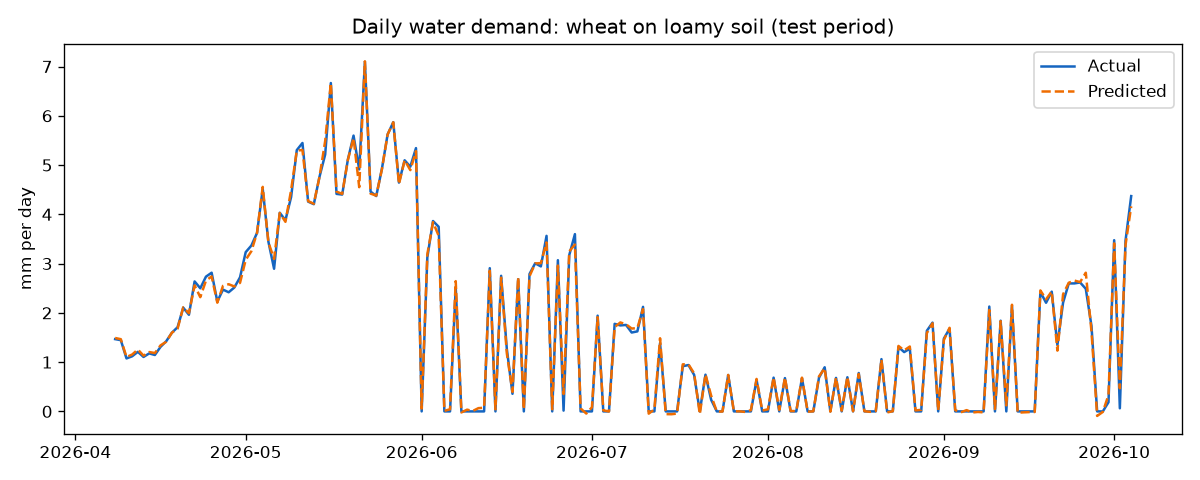
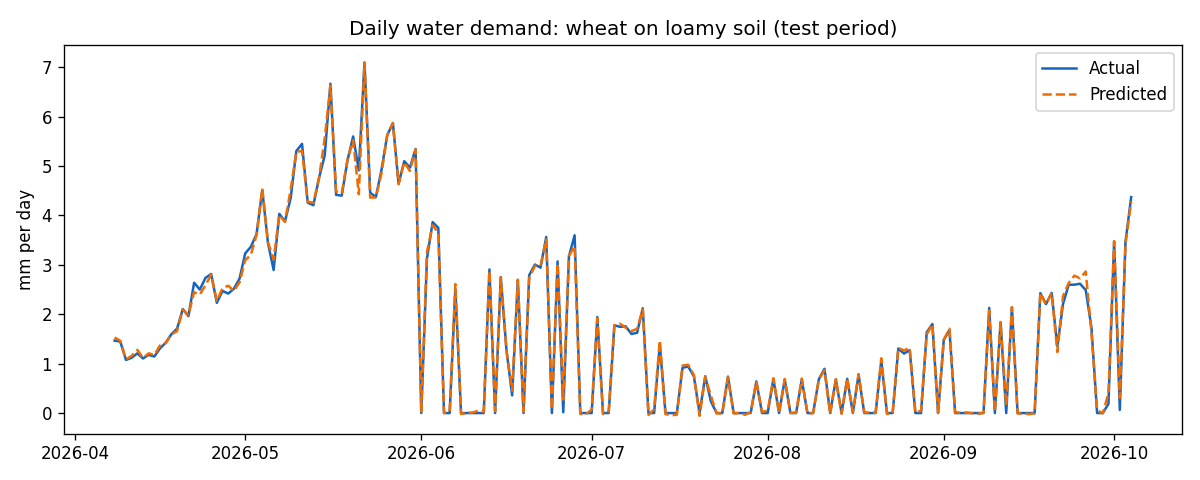
Save dynamic multilingual AI chatbot integration

diff --git a/backend/app/services/groq_service.py b/backend/app/services/groq_service.py
@@ -1,0 +1,158 @@
+"""Groq LLM integration for dynamic chatbot responses.
+
+When the rule-based NLU classifies a message as greeting, help, or unknown,
+this module calls the Groq API to generate a natural, context-aware reply.
+All field data shown to the LLM comes from the database so the model never
+invents sensor readings.  The system prompt includes website-feature context
+so the LLM can answer platform-usage questions, and allows general-knowledge
+questions without forcing an agriculture context.
+If the API key is missing or the call fails, ``generate_response`` returns
+``None`` and the caller falls back to the existing rule-based reply.
+"""
+import logging
+
+from sqlalchemy.orm import Session
+
+from app.core.config import settings
+from app.models.models import Alert, Farm, Field, SensorReading, User
+
+logger = logging.getLogger(__name__)
+
+# Production model verified available for this API key via client.models.list()
+GROQ_MODEL = "openai/gpt-oss-120b"
+
+_LANG_NAMES = {"en": "English", "hi": "Hindi", "mr": "Marathi"}
+
+
+def _build_context(db: Session, user: User) -> str:
+    """Return a compact text summary of the user's fields and latest readings."""
+    fields = (
+        db.query(Field)
+        .join(Farm, Field.farm_id == Farm.id)
+        .filter(Farm.owner_id == user.id)
+        .order_by(Field.id)
+        .all()
+    )
+    if not fields:
+        return "The farmer has no fields registered yet."
+
+    lines = []
+    for f in fields:
+        reading = (
+            db.query(SensorReading)
+            .filter(SensorReading.field_id == f.id)
+            .order_by(SensorReading.timestamp.desc())
+            .first()
+        )
+        parts = [f"Field '{f.name}': crop={f.crop_type}, soil={f.soil_type}"]
+        if f.area_acres:
+            parts.append(f"area={f.area_acres} acres")
+        if reading:
+            parts.append(
+                f"latest reading ({reading.timestamp.strftime('%Y-%m-%d %H:%M')} UTC): "
+                f"soil_moisture={reading.soil_moisture}%, "
+                f"temperature={reading.temperature}°C, "
+                f"humidity={reading.humidity}%, "
+                f"rainfall={reading.rainfall}mm, "
+                f"wind_speed={reading.wind_speed}km/h"
+            )
+        else:
+            parts.append("no sensor readings yet")
+        lines.append(", ".join(parts))
+
+    unread = (
+        db.query(Alert)
+        .join(Field, Alert.field_id == Field.id)
+        .join(Farm, Field.farm_id == Farm.id)
+        .filter(Farm.owner_id == user.id, Alert.is_read.is_(False))
+        .count()
+    )
+    if unread:
+        lines.append(f"Unread alerts: {unread}")
+
+    return "\n".join(lines)
+
+
+def generate_response(db: Session, user: User, message: str, lang: str):
+    """Generate a dynamic reply via Groq.
+
+    Returns the reply text, or ``None`` when the API key is missing or the
+    call fails (caller falls back to the rule-based response).
+    """
+    if not settings.GROQ_API_KEY:
+        return None
+
+    try:
+        from groq import Groq
+
+        client = Groq(api_key=settings.GROQ_API_KEY)
+    except Exception as exc:
+        logger.warning("Failed to initialise Groq client: %s", exc)
+        return None
+
+    context = _build_context(db, user)
+    lang_name = _LANG_NAMES.get(lang, "English")
+
+    system_prompt = (
+        f"You are a knowledgeable AI assistant for the Smart Irrigation AI Platform, "
+        f"a web application that helps farmers monitor soil moisture, forecast water "
+        f"demand, and manage irrigation. You can answer ANY question — agriculture, "
+        f"general knowledge, technology, cooking, science, current affairs, or "
+        f"anything else. Respond naturally and helpfully.\n\n"
+        f"LANGUAGE: Reply in {lang_name}. Match the user's question language exactly — "
+        f"Hindi question → Hindi reply, Marathi question → Marathi reply, "
+        f"English question → English reply.\n\n"
+        f"The farmer's field data from the database:\n{context}\n\n"
+        f"WEBSITE FEATURES (use this to answer questions about the platform):\n"
+        f"- Registration: Go to the Register page (/register) and create an account "
+        f"with email, full name, and password.\n"
+        f"- Login: Go to the Login page (/login) and sign in with email and password.\n"
+        f"- Forgot password: Use the 'Forgot Password' link on the login page.\n"
+        f"- Dashboard (home page): Lists all your farms with summary cards (farm count, "
+        f"field count, unread alerts). Click 'Add farm' to create a new farm.\n"
+        f"- Farm detail: Click a farm card to see its fields. Click 'Add field' to add "
+        f"a field to a farm.\n"
+        f"- Fields page (/fields): Lists all fields across all farms with crop type, "
+        f"soil type, area (acres), and planting date.\n"
+        f"- Field detail: Click any field to see live sensor readings (soil moisture, "
+        f"temperature, humidity, rainfall, wind speed) with charts, water demand "
+        f"forecasts, irrigation history, and ML model info. Readings refresh every "
+        f"5 seconds.\n"
+        f"- Alerts page (/alerts): Automatic warnings from field sensors — dry soil, "
+        f"heat stress, heavy rain, sensor offline. Filter unread, mark individual or "
+        f"all as read. The sidebar shows an unread alert badge.\n"
+        f"- Chatbot: The floating chat button in the bottom-right corner. Supports "
+        f"text and voice input.\n"
+        f"- Language: Set preferred language (English, Hindi, Marathi) from the "
+        f"sidebar dropdown.\n"
+        f"- Supported crops: wheat, rice, cotton, sugarcane, maize, soybean, tomato, "
+        f"onion.\n"
+        f"- Supported soil types: sandy, loamy, clay.\n\n"
+        f"RULES:\n"
+        f"- For questions about the user's fields, sensor readings, or alerts: use "
+        f"ONLY the field data provided above. Never invent sensor readings, "
+        f"forecasts, or farmer information.\n"
+        f"- If field data is unavailable, tell the user clearly.\n"
+        f"- For general knowledge questions (science, technology, cooking, people, "
+        f"current affairs, etc.): answer normally and helpfully. Do not force an "
+        f"agriculture context.\n"
+        f"- If asked about pesticides, fertilisers, or medicines: advise contacting "
+        f"the local Krishi Vigyan Kendra (KVK) or agriculture officer.\n"
+        f"- Be friendly, practical, and concise. Keep responses under 200 words.\n"
+    )
+
+    try:
+        response = client.chat.completions.create(
+            model=GROQ_MODEL,
+            messages=[
+                {"role": "system", "content": system_prompt},
+                {"role": "user", "content": message},
+            ],
+            max_tokens=500,
+            temperature=0.7,
+        )
+        reply = response.choices[0].message.content.strip()
+        return reply if reply else None
+    except Exception as exc:
+        logger.warning("Groq API call failed: %s", exc)
+        return None

diff --git a/backend/app/services/chat_service.py b/backend/app/services/chat_service.py
@@ -8,6 +8,7 @@ from app.models.models import Alert, Farm, IrrigationLog, SensorReading, User
 from app.models.models import Field as FieldModel
 from app.schemas.chat import ChatResponse
 from app.services import chat_nlu as nlu
+from app.services import groq_service
 from app.services.forecast_service import ModelNotReady, NotEnoughData, forecast_field
 from ml.agronomy import SOILS
 
@@ -223,12 +224,11 @@ def handle_message(db: Session, user: User, message: str, requested_lang=None) -
 
     if intent == "safety":
         return _reply(lang, intent, say("safety", lang), suggestions=False)
-    if intent == "greeting":
-        return _reply(lang, intent, say("greeting", lang))
-    if intent == "help":
-        return _reply(lang, intent, say("help", lang))
-    if intent == "unknown":
-        return _reply(lang, intent, say("unknown", lang))
+    if intent in ("greeting", "help", "unknown"):
+        groq_reply = groq_service.generate_response(db, user, message, lang)
+        if groq_reply is not None:
+            return _reply(lang, intent, groq_reply)
+        return _reply(lang, intent, say(intent, lang))
     if intent == "units":
         return _units(text, lang)
 

diff --git a/backend/app/core/config.py b/backend/app/core/config.py
@@ -44,6 +44,11 @@ class Settings(BaseSettings):
     # Output audio format for TTS.  "mp3" works for all providers; "wav" for mock only.
     TTS_AUDIO_FORMAT: str = "mp3"
 
+    # ------------------------------------------------------------------ Groq LLM
+    # API key for the Groq LLM service (dynamic chatbot responses).
+    # Leave empty to keep the existing rule-based chatbot behaviour.
+    GROQ_API_KEY: str = ""
+
     model_config = SettingsConfigDict(env_file=".env")
 
     @model_validator(mode="after")
